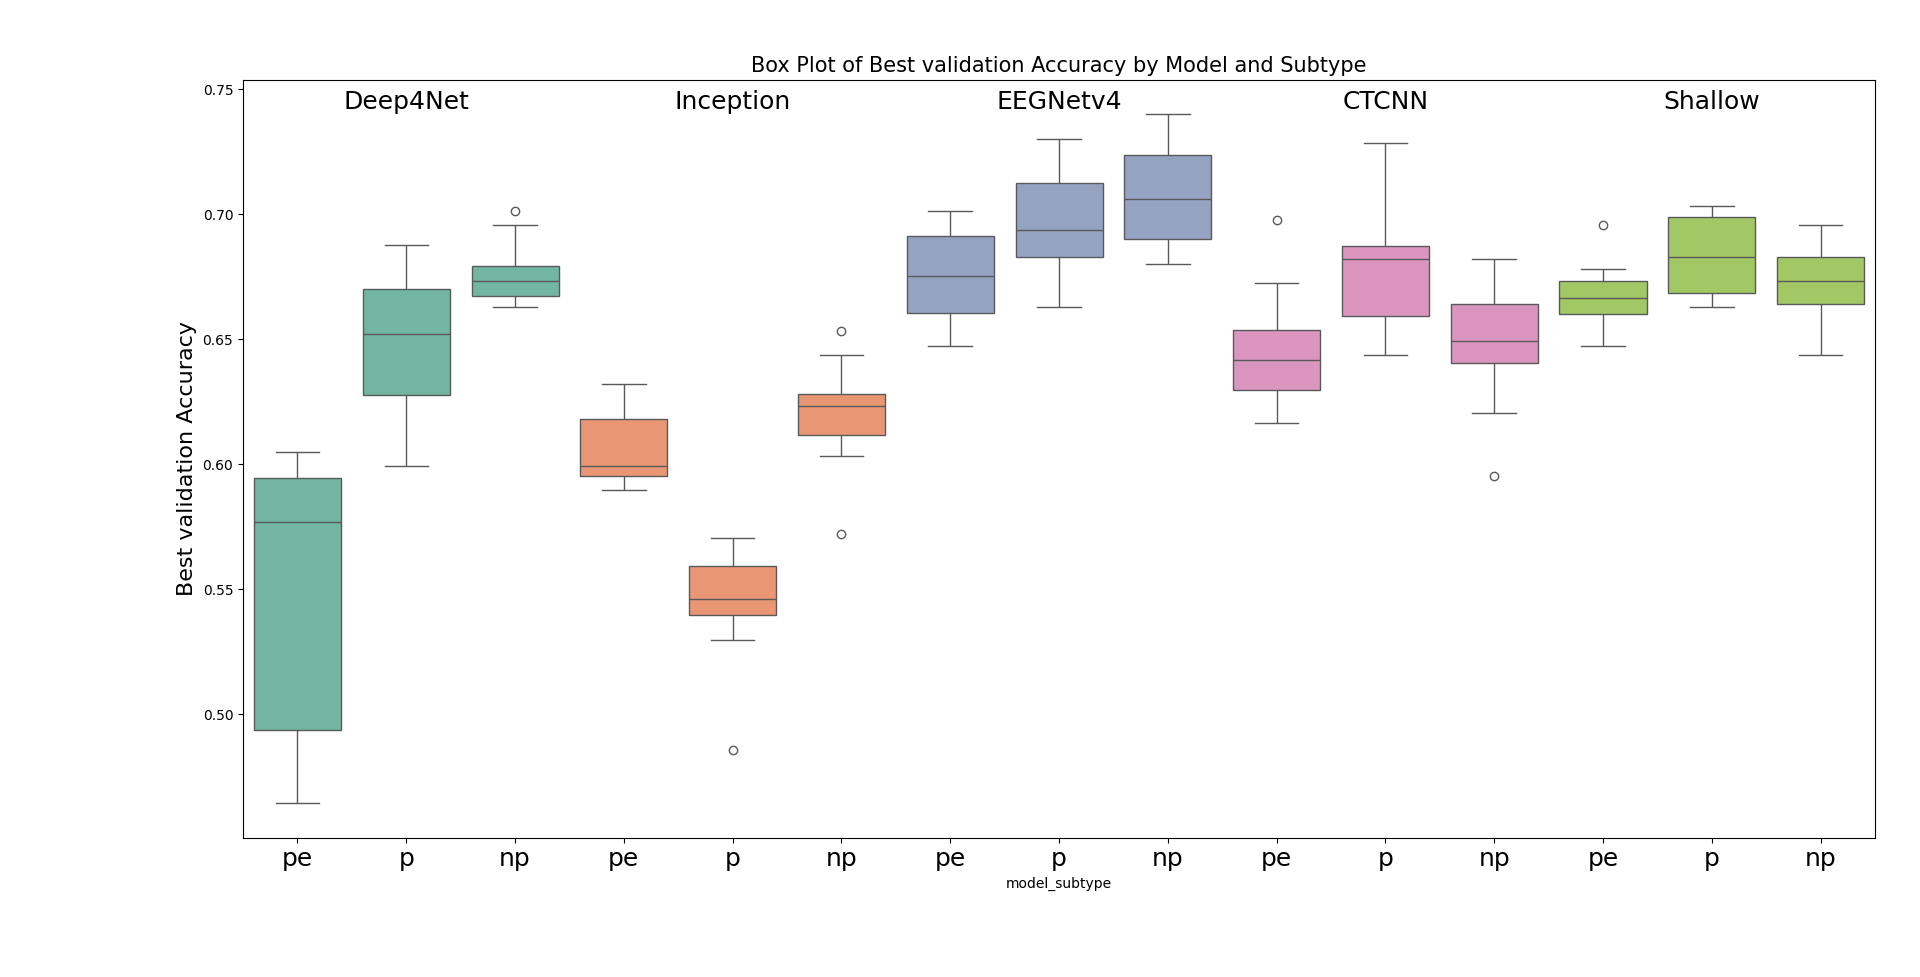
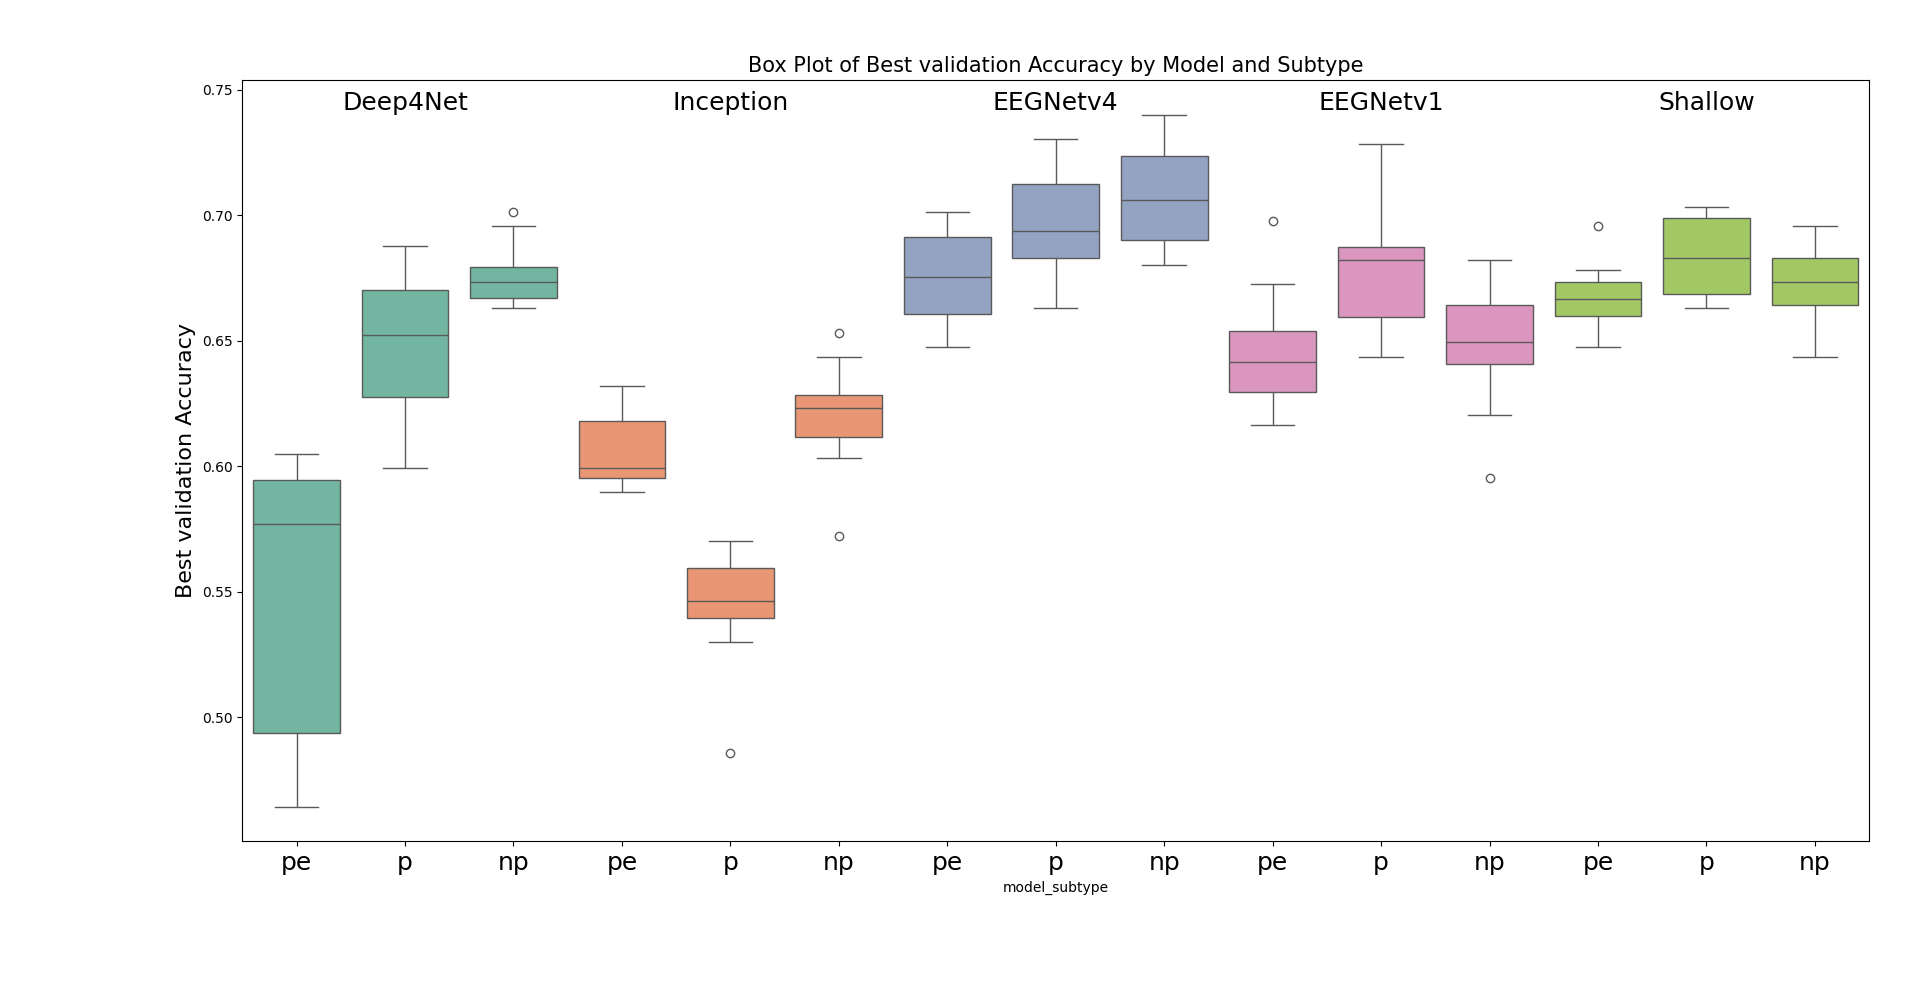
updated plots, eegnet v1

diff --git a/all_subject/a.py b/all_subject/a.py
@@ -1,4 +1,5 @@
 
+from collections.abc import Mapping
 
 # List of models
 import pandas as pd
@@ -20,7 +21,7 @@ def convert_to_numeric(val):
             return None  # or some other value indicating an error
 
 
-models = ['Deep4Net', 'Inception', 'EEGNetv4', 'CTCNN', 'Shallow']
+models = ['Deep4Net', 'Inception', 'EEGNetv4', 'EEGNetv1', 'Shallow']
 models1=['deep4.Deep4Net','eeginception_mi.EEGInceptionMI','eegnet.EEGNetv4','eegnet.EEGNetv1','shallow_fbcsp.ShallowFBCSPNet']
 
 # List of subtypes
@@ -34,9 +35,9 @@ for model, model_name in zip(models1, models):
         df = pd.read_excel(f'{subtype}_all_Sub_{model}.xlsx')  # Adjusted file path
         df['model'] = model_name
         df['subtype'] = subtype
-        df['best_test_acc'] = df['best_test_acc'].apply(convert_to_numeric)  # Convert 'accuracy' to numeric
+        # df['best_test_acc'] = df['best_test_acc'].apply(convert_to_numeric)  # Convert 'accuracy' to numeric
 
-        # df['best_val_acc'] = df['best_val_acc'].apply(convert_to_numeric)  # Convert 'accuracy' to numeric
+        df['best_val_acc'] = df['best_val_acc'].apply(convert_to_numeric)  # Convert 'accuracy' to numeric
         dataframes.append(df)
 
 df_all = pd.concat(dataframes, ignore_index=True)
@@ -52,38 +53,38 @@ df_all['color'] = df_all['model'].map(palette_model)
 
 
 # Create a boxplot
-# box_plot = sns.boxplot(x='model_subtype', y='best_val_acc', data=df_all, hue='model', palette=palette_model)
-box_plot = sns.boxplot(x='model_subtype', y='best_test_acc', data=df_all, hue='model', palette=palette_model)
+box_plot = sns.boxplot(x='model_subtype', y='best_val_acc', data=df_all, hue='model', palette=palette_model)
+# box_plot = sns.boxplot(x='model_subtype', y='best_test_acc', data=df_all, hue='model', palette=palette_model)
 
 
 
 # Get the medians for each box in the boxplot
-# medians = df_all.groupby(['model_subtype'])['best_val_acc'].median()
-medians = df_all.groupby(['model_subtype'])['best_test_acc'].median()
+medians = df_all.groupby(['model_subtype'])['best_val_acc'].median()
+# medians = df_all.groupby(['model_subtype'])['best_test_acc'].median()
 
 
 # Add model names above the boxes with increased font size
-# for i, model in enumerate(df_all['model'].unique()):
-#     # Calculate the midpoint of the three subtypes for each model
-#     midpoint = i * len(df_all['subtype'].unique()) + len(df_all['subtype'].unique()) / 2 - 0.5
-#     box_plot.text(x=midpoint, y=df_all['best_val_acc'].max(), s=model, horizontalalignment='center', fontsize=18, verticalalignment='bottom')
-
 for i, model in enumerate(df_all['model'].unique()):
     # Calculate the midpoint of the three subtypes for each model
     midpoint = i * len(df_all['subtype'].unique()) + len(df_all['subtype'].unique()) / 2 - 0.5
-    box_plot.text(x=midpoint, y=df_all['best_test_acc'].max(), s=model, horizontalalignment='center', fontsize=18, verticalalignment='bottom')
+    box_plot.text(x=midpoint, y=df_all['best_val_acc'].max(), s=model, horizontalalignment='center', fontsize=18, verticalalignment='bottom')
 
-# plt.title('Box Plot of Best validation Accuracy by Model and Subtype', fontsize=15)
-# plt.ylabel('Best validation Accuracy', fontsize=16)
-# plt.legend().remove()
-# plt.xticks(range(len(df_all['model_subtype'].unique())), df_all['subtype'].unique().tolist() * len(df_all['model'].unique()),fontsize=18)
-# plt.tight_layout()
-# plt.show()
+# for i, model in enumerate(df_all['model'].unique()):
+#     # Calculate the midpoint of the three subtypes for each model
+#     midpoint = i * len(df_all['subtype'].unique()) + len(df_all['subtype'].unique()) / 2 - 0.5
+#     box_plot.text(x=midpoint, y=df_all['best_test_acc'].max(), s=model, horizontalalignment='center', fontsize=18, verticalalignment='bottom')
 
-
-plt.title('Box Plot of Best test Accuracy by Model and Subtype', fontsize=15)
-plt.ylabel('Best test Accuracy', fontsize=16)
+plt.title('Box Plot of Best validation Accuracy by Model and Subtype', fontsize=15)
+plt.ylabel('Best validation Accuracy', fontsize=16)
 plt.legend().remove()
 plt.xticks(range(len(df_all['model_subtype'].unique())), df_all['subtype'].unique().tolist() * len(df_all['model'].unique()),fontsize=18)
 plt.tight_layout()
 plt.show()
+
+
+# plt.title('Box Plot of Best test Accuracy by Model and Subtype', fontsize=15)
+# plt.ylabel('Best test Accuracy', fontsize=16)
+# plt.legend().remove()
+# plt.xticks(range(len(df_all['model_subtype'].unique())), df_all['subtype'].unique().tolist() * len(df_all['model'].unique()),fontsize=18)
+# plt.tight_layout()
+# plt.show()

diff --git a/plotting/a.py b/plotting/a.py
@@ -5,16 +5,16 @@ import matplotlib.pyplot as plt
 import numpy as np
 
 # Assuming you have your data in 2D arrays: accuracies, standard_deviations
-models = ['Shallow FBCSP', 'CTCNN', 'EEGNet v4', 'Inception MI', 'Deep4Net']
+models = ['Shallow FBCSP', 'EEGNet v1', 'EEGNet v4', 'Inception MI', 'Deep4Net']
 subjects = ['Subject1', 'Subject2', 'Subject3', 'Subject4', 'Subject5', 'Subject6', 'Subject7', 'Subject8', 'Subject9']
 
-#cross
-accuracies = np.array([[61.30, 62.291, 67.62,51.11 , 56.64], [46.97,51.336,54.04,40.67,46.441],[73.4722,71.14,71.57,60.034,73.4201],[51.19,50.85,53.81,42.70,50.72],[55.468,56.163,60.71,41.73,57.5],[54.28,58.055,57.482,42.91,53.50],[69.04,66.89,68.64,57.361,65.83],[70.41,69.40,69.94,59.79,63.78],[62.06,59.93,63.75,51.78,59.21] ]) # replace with your actual 2D array
-standard_deviations = np.array([[1.48,4.96,1.10,1.91,2.11],[1.31,2.69,1.63,2.05,2.22],[1.19,2.14,2.07,3.51,1.79],[1.88,2.02,2.08,1.79,0.94],[3.23,1.85,1.941,3.79,1.83],[1.86,3.25,3.20,1.75,1.32],[1.41,1.96,2.81,2.44,1.49],[1.20,2.89,2.03,1.930,2.30],[1.37,1.44,1.06,3.20,1.55]]) # replace with your actual 2D array
+# #cross
+# accuracies = np.array([[61.30, 62.291, 67.62,51.11 , 56.64], [46.97,51.336,54.04,40.67,46.441],[73.4722,71.14,71.57,60.034,73.4201],[51.19,50.85,53.81,42.70,50.72],[55.468,56.163,60.71,41.73,57.5],[54.28,58.055,57.482,42.91,53.50],[69.04,66.89,68.64,57.361,65.83],[70.41,69.40,69.94,59.79,63.78],[62.06,59.93,63.75,51.78,59.21] ]) # replace with your actual 2D array
+# standard_deviations = np.array([[1.48,4.96,1.10,1.91,2.11],[1.31,2.69,1.63,2.05,2.22],[1.19,2.14,2.07,3.51,1.79],[1.88,2.02,2.08,1.79,0.94],[3.23,1.85,1.941,3.79,1.83],[1.86,3.25,3.20,1.75,1.32],[1.41,1.96,2.81,2.44,1.49],[1.20,2.89,2.03,1.930,2.30],[1.37,1.44,1.06,3.20,1.55]]) # replace with your actual 2D array
 
-#within
-# accuracies = np.array([[56.72,54.13,61.89,47.49,51.98], [27.41,36.03,37.5,24.48,27.84],[55.77,61.29,70.94,53.62,47.84],[43.53,44.74,49.82,33.70,39.39],[31.89,36.55,35.68,30.68,29.05],[36.46,33.18,40.00,28.70,27.67],[46.72,40.25,43.18,36.81,26.20 ],[47.93,58.62,61.63,52.58,41.03],[55.68,63.44,68.27,53.27,60.94]]) # replace with your actual 2D array
-# standard_deviations = np.array([[2.75,4.19,3.63,7.90,5.74],[2.95,2.53,3.75,1.58,2.87],[4.22,8.89,3.44,4.77,2.76],[1.96,2.00,4.92,2.99,4.12],[3.70,5.47,3.35,5.25,2.22],[3.66,5.77,3.9,5.28,2.09],[4.41,4.47,6.36,4.91,3.52],[3.33,3.49,2.48,5.66,8.83],[3.15,4.93,3.56,6.49,3.94]]) # replace with your actual 2D array
+# within
+accuracies = np.array([[56.72,54.13,61.89,47.49,51.98], [27.41,36.03,37.5,24.48,27.84],[55.77,61.29,70.94,53.62,47.84],[43.53,44.74,49.82,33.70,39.39],[31.89,36.55,35.68,30.68,29.05],[36.46,33.18,40.00,28.70,27.67],[46.72,40.25,43.18,36.81,26.20 ],[47.93,58.62,61.63,52.58,41.03],[55.68,63.44,68.27,53.27,60.94]]) # replace with your actual 2D array
+standard_deviations = np.array([[2.75,4.19,3.63,7.90,5.74],[2.95,2.53,3.75,1.58,2.87],[4.22,8.89,3.44,4.77,2.76],[1.96,2.00,4.92,2.99,4.12],[3.70,5.47,3.35,5.25,2.22],[3.66,5.77,3.9,5.28,2.09],[4.41,4.47,6.36,4.91,3.52],[3.33,3.49,2.48,5.66,8.83],[3.15,4.93,3.56,6.49,3.94]]) # replace with your actual 2D array
 
 # Create lists for Model, Subject, Accuracy and Standard Deviation
 model_list = []
@@ -42,11 +42,11 @@ df = pd.DataFrame({
 palette = sns.color_palette('Set2', len(df['Model']))
 
 # # Create a box plot without outliers
-# plt.figure(figsize=(10, 6))
-# sns.boxplot(x='Model', y='Accuracy', data=df, showfliers=False,palette=palette)
-# sns.swarmplot(x='Model', y='Std Dev', data=df, color=".25")
-# plt.title('Within subject accuracy on BCI-IV 2a data set')
-# plt.ylim(20,80)  # Set the limits of the y-axis
+plt.figure(figsize=(10, 6))
+sns.boxplot(x='Model', y='Accuracy', data=df, showfliers=False,palette=palette)
+sns.swarmplot(x='Model', y='Std Dev', data=df, color=".25")
+plt.title('Within subject accuracy on BCI-IV 2a data set')
+plt.ylim(20,80)  # Set the limits of the y-axis
 # plt.show()
 
 # Create a box plot without outliers

diff --git a/plotting/randint.py b/plotting/randint.py
@@ -1,0 +1,76 @@
+# import matplotlib.pyplot as plt
+
+# # Data for x and y axes based on the description
+# x = [100, 150, 200, 250,252.5,300, 350, 400, 450, 500]
+# y = [80, 78, 73, 74, 50,50,50, 50, 50, 50]
+
+# # Create a plot
+# plt.figure(figsize=(12, 6))  # Set the figure size if needed
+
+# # Plot the data
+# plt.plot(x, y, 'b-', marker='o')  # 'b-' means a blue line, and marker='o' adds circle markers
+
+# # Set x and y axis labels
+# plt.xlabel('Sampling Rate')
+# plt.ylabel('Accuracy')
+
+# # Set axis limits to start x-axis from 0
+# plt.xlim(0, max(x))
+# plt.ylim(45, 85)
+
+# # Display the plot
+# plt.show()
+
+# import matplotlib.pyplot as plt
+
+# # Data for x and y axes based on the description
+# x = [100, 150, 200, 250, 252.5, 300, 350, 400, 450, 500]
+# y = [80, 78, 73, 74, 50, 50, 50, 50, 50, 50]
+
+# # Create a plot
+# plt.figure(figsize=(12, 6))  # Set the figure size
+
+# # Plot the data
+# plt.plot(x, y, 'b-', marker='o')  # 'b-' means a blue line, and marker='o' adds circle markers
+
+# # Set x and y axis labels
+# plt.xlabel('Sampling Rate')
+# plt.ylabel('Accuracy')
+
+# # Set specific ticks for x and y axes
+# plt.xticks([100, 150, 200, 250, 300, 350, 400, 450, 500])
+# plt.yticks([50, 60, 70, 80, 90, 100])
+
+# # Set axis limits to make sure the ticks are displayed properly
+# plt.xlim(90, 510)
+# plt.ylim(45, 105)
+
+# # Display the plot
+# plt.show()
+
+import matplotlib.pyplot as plt
+
+# Data for x and y axes based on the description
+x = [100, 150, 200, 250, 252.5, 300, 350, 400, 450, 500]
+y = [80, 78, 73, 74, 50, 50, 50, 50, 50, 50]
+
+# Create a plot
+plt.figure(figsize=(12, 6))  # Set the figure size
+
+# Plot the data
+plt.plot(x, y, 'b-', marker='o')  # 'b-' means a blue line, and marker='o' adds circle markers
+
+# Set x and y axis labels with increased font size
+plt.xlabel('Sampling Rate', fontsize=14)
+plt.ylabel('Accuracy(%)', fontsize=14)
+
+# Set specific ticks for x and y axes with increased font size for ticks
+plt.xticks([100, 150, 200, 250, 300, 350, 400, 450, 500], fontsize=12)
+plt.yticks([50,55, 60,65, 70,75, 80], fontsize=15)
+
+# Set axis limits to make sure the ticks are displayed properly
+plt.xlim(90, 510)
+plt.ylim(45, 85)
+
+# Display the plot
+plt.show()

diff --git a/plotting/temp.py b/plotting/temp.py
@@ -1,0 +1,13 @@
+import numpy as np
+
+# Example data: multiple accuracy measurements for "EEGNet v4"
+accuracies = [74.56, 75.12, 73.98, 74.85, 74.20]  # Replace with actual data if available
+
+# Calculate the mean accuracy
+mean_accuracy = np.mean(accuracies)
+
+# Calculate the standard deviation
+std_dev_accuracy = np.std(accuracies)
+
+print(f"Mean Accuracy: {mean_accuracy:.2f}%")
+print(f"Standard Deviation: {std_dev_accuracy:.2f}%")

diff --git a/plotting/b.py b/plotting/b.py
@@ -5,7 +5,7 @@ import seaborn as sns
 
 # Define your data
 data = {
-    'model': ['Shallow FBCSP', 'CTCNN', 'EEGNet v4', 'Inception MI', 'Deep4Net'],
+    'model': ['Shallow FBCSP', 'EEGNet v1', 'EEGNet v4', 'Inception MI', 'Deep4Net'],
     'accuracy': [62.31,67.52,74.56,55.46,63.21]
 }
 
